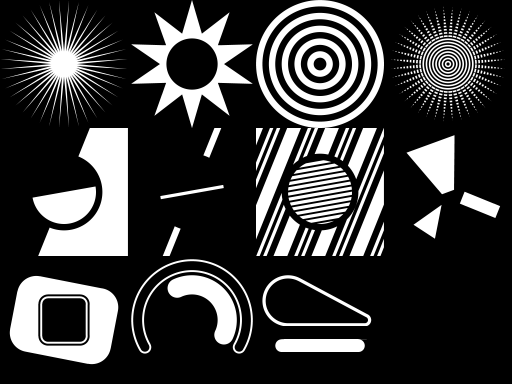
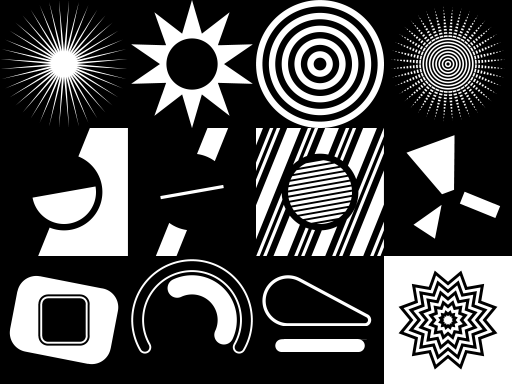
moar dmeo

Changed region(s): [[0.75, 0.6562, 1.0, 1.0], [0.375, 0.3125, 0.4375, 0.4375], [0.3125, 0.5625, 0.375, 0.6875]]

diff --git a/rzr.c b/rzr.c
@@ -2800,7 +2800,7 @@ int main(int argc, char** argv)
 			Save();
 			Rotate(22);
 			if (t == 0) Split();
-			if (t == 1) Line(0.1);
+			if (t == 1) Line(0.3);
 			if (t == 2) Pattern(0.05,0.05,0.05,0.1,0.2,0.1);
 			Restore();
 			Circle(0.6);
@@ -2877,6 +2877,20 @@ int main(int argc, char** argv)
 			Difference();
 			Segment(-0.6,  0.4, 0.6,  0.4, 0.1);
 			Union();
+			end_tile();
+		}
+
+		{
+			struct rzr* rzr = begin_tile(S/2, 16);
+			One();
+			const int N = 10;
+			const float R0 = 0.8f;
+			const float R1 = 0.6f;
+			for (int i = 0; i < N; i++) {
+				const float m = 1.0f - (float)i/(float)N;
+				Star(12, R0*m, R1*m);
+				if ((i&1) == 0) Difference(); else Union();
+			}
 			end_tile();
 		}
 
